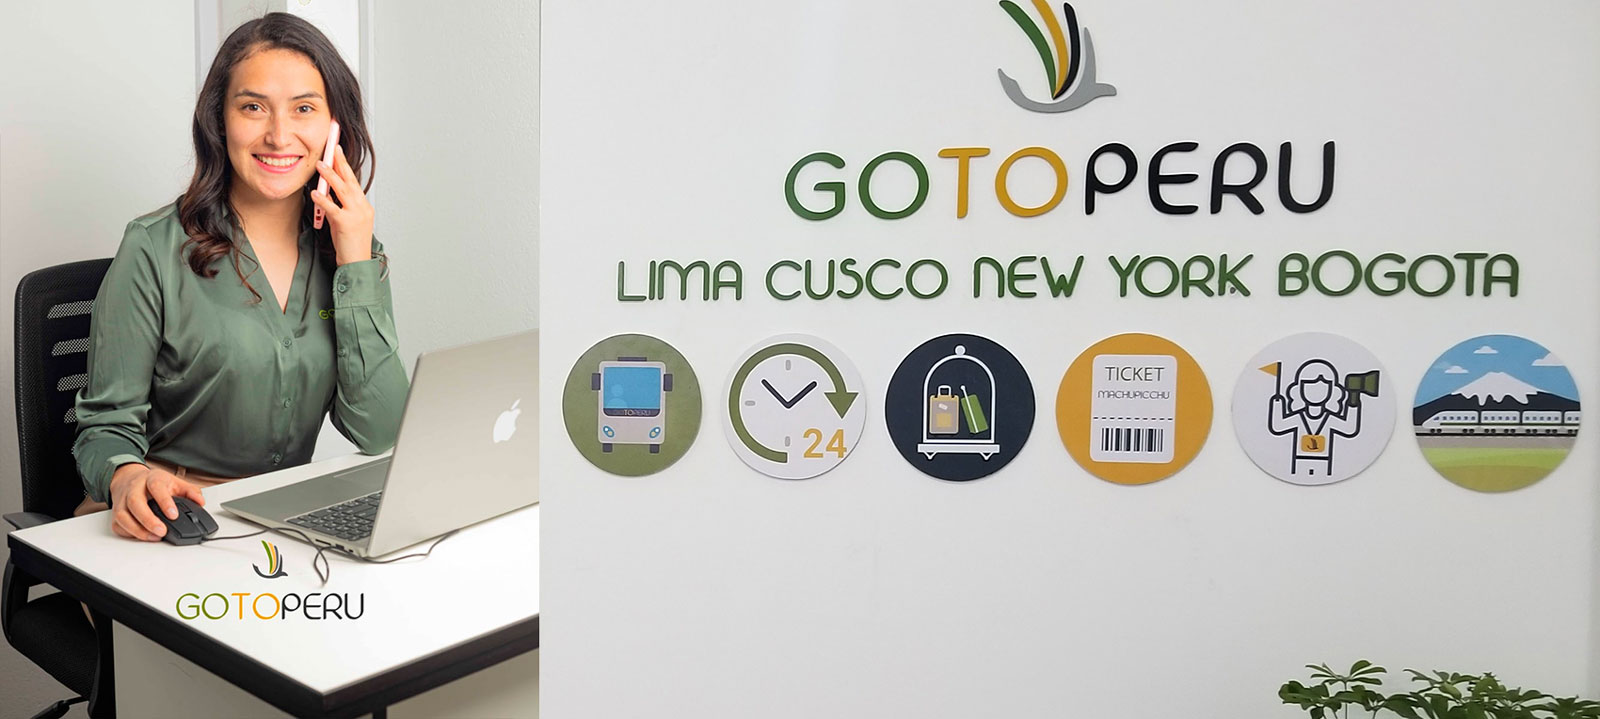
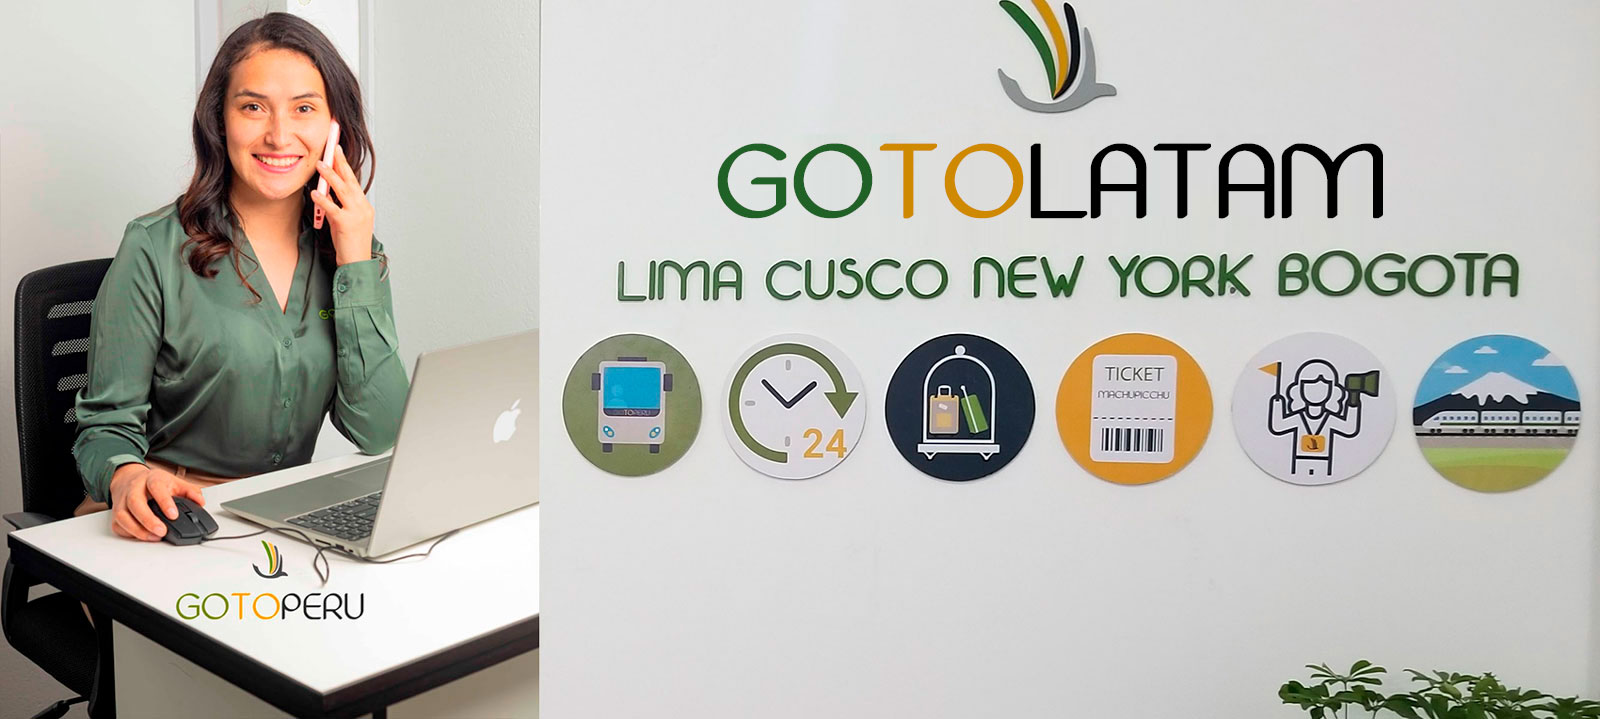
Validacion de estados

diff --git a/resources/views/layouts/page-layout.blade.php b/resources/views/layouts/page-layout.blade.php
@@ -306,14 +306,14 @@
 {{--    </div>--}}
 
 
-<div class="fixed bottom-0 right-0 z-40 py-6 px-7 sm:inline-flex">
+<div class="fixed bottom-0 right-0 z-40 py-6 px-7 sm:inline-flex mb-24 md:mb-0">
     <a href="https://api.whatsapp.com/send?phone=51936241194" target="_blank">
             <span class="flex relative h-10 w-10">
               <span class="animate-ping absolute inline-flex h-full w-full rounded-full bg-gray-400 opacity-75"></span>
             </span>
     </a>
 </div>
-<div class="fixed bottom-0 right-0 z-40 py-5 px-4 sm:inline-flex">
+<div class="fixed bottom-0 right-0 z-40 py-5 px-4 sm:inline-flex mb-24 md:mb-0">
     <a href="https://api.whatsapp.com/send?phone=51936241194" target="_blank">
         <img src="{{asset('images/whatsapp-i.png')}}" alt="" class="w-16">
     </a>
@@ -342,11 +342,11 @@
         </div>
     </div>
 
-    <div class="fixed bottom-0 right-0 mb-16 w-9/12 mr-1 rounded-lg bg-gray-50 z-50" x-show="menu" x-transition x-on:click.away="menu = false" x-data="{menu : false}">
+    <div class="fixed bottom-0 right-0 mb-16 w-9/12 mr-1 rounded-lg bg-gray-50 z-50" x-show="menu" x-transition x-on:click.away="menu = false" x-data="{menu2 : false}">
         @foreach($nav_links as $nav_link)
             @if($nav_link['nav_sub_links'])
 
-                <span @click="menu = !menu" class="w-full text-sm flex inline-flex transition-colors duration-200 block px-4 py-2 text-normal text-gray-900 rounded hover:bg-gray-700 hover:text-secondary menu-pop  {{ $nav_link['active'] == 1 ? 'active' : '' }}">
+                <span @click="menu2 = !menu2" class="w-full text-sm flex inline-flex transition-colors duration-200 block px-4 py-2 text-normal text-gray-900 rounded hover:bg-gray-700 hover:text-secondary menu-pop  {{ $nav_link['active'] == 1 ? 'active' : '' }}">
                     <span class="mr-2">
                     {!! $nav_link['icon'] !!}
                 </span>
@@ -356,9 +356,9 @@
                                         </svg>
                                     </span>
 
-                <div class="bg-gray-200 absolute top-0 rounded-lg mt-16 w-72 z-50 shadow-lg" x-show="menu" x-on:click.away="menu = false" x-transition>
+                <div class="bg-gray-200 absolute top-0 rounded-lg mt-16 w-72 z-50 shadow-lg" x-show="menu2" x-on:click.away="menu2 = false" x-transition>
                     <div class="font-bold text-gray-500 flex justify-between text-xs px-5 py-3">INFORMATION
-                        <span class="ml-auto cursor-pointer" @click="menu = !menu">X</span>
+                        <span class="ml-auto cursor-pointer" @click="menu2 = !menu2">X</span>
                     </div>
 
 
@@ -615,13 +615,13 @@
         {{--            <path fill="currentColor" d="M0 22L120 16.7C240 11 480 1.00001 720 0.700012C960 1.00001 1200 11 1320 16.7L1440 22V54H1320C1200 54 960 54 720 54C480 54 240 54 120 54H0V22Z"></path>--}}
         {{--        </svg>--}}
         <div class="container pt-12">
-            <div class="text-center mb-20 bg-gray-400 bg-opacity-50 rounded shadow p-6">
+            <div class="text-center mb-20  p-6">
                 <a href="/" aria-label="Go home" title="Company" class="inline-flex items-center">
-                    <img src="https://gotolatam.s3.us-west-1.amazonaws.com/logos/logo-gotoperu-black.png" alt="" class="mx-auto">
+                    <img src="{{asset('images/logos/logo-gotolatam-white.png')}}" alt="" class="mx-auto">
                 </a>
                 <span class="text-white px-3">part of</span>
                 <a href="/" aria-label="Go home" title="Company" class="inline-flex items-center">
-                    <img src="https://gotoperu-com.s3-us-west-1.amazonaws.com/logos/logo-gotoperu-black.png" alt="" class="mx-auto">
+                    <img src="{{asset('images/logos/logo-gotoperu-white.png')}}" alt="" class="mx-auto">
                 </a>
                 <p class="mt-4 font-semibold text-secondary">CONTACT US ALSO VIA EMAIL: travel@gotolatam.com</p>
             </div>
@@ -632,10 +632,16 @@
                     </p>
                     <ul class="mt-2 space-y-2">
                         <li>
-                            <a href="{{route('packages.all')}}" class="transition-colors duration-300 text-deep-purple-50 hover:text-teal-accent-400">{{__('message.foorer_li1')}}</a>
+                            <a href="{{route('country.show', 2)}}" class="transition-colors duration-300 text-deep-purple-50 hover:text-teal-accent-400">2 Countries</a>
                         </li>
                         <li>
-                            <a href="{{route('tours')}}" class="transition-colors duration-300 text-deep-purple-50 hover:text-teal-accent-400">{{__('message.foorer_li2')}}</a>
+                            <a href="{{route('country.show', 3)}}" class="transition-colors duration-300 text-deep-purple-50 hover:text-teal-accent-400">3 Countries</a>
+                        </li>
+                        <li>
+                            <a href="{{route('country.show', 4)}}" class="transition-colors duration-300 text-deep-purple-50 hover:text-teal-accent-400">4 Countries</a>
+                        </li>
+                        <li>
+                            <a href="{{route('packages.all')}}" class="transition-colors duration-300 text-deep-purple-50 hover:text-teal-accent-400">All Packages</a>
                         </li>
                         <li>
 {{--                            @livewire('page.form-inquire')--}}
@@ -712,16 +718,15 @@
                     </ul>
                 </div>
                 <div>
-                    <p class="font-semibold tracking-wide text-secondary mb-6">
 
-                    </p>
                     <div class="bg-gray-900 p-4 rounded-lg shadow-inner">
-                        <p class="mb-2 text-gray-300">
+{{--                        <p class="mb-2 text-gray-300">--}}
 {{--                            {{__('message.footer_par1')}}--}}
-                            Contact a South America travel expert
-                            We always aim to reply within 24 hours.
-                        </p>
-                        <a href="#form-dream-adventure" class="btn-primary lg:px-4 block text-center mt-4">Send us a  Enquiry</a>
+{{--                            Contact a South America travel expert--}}
+{{--                            We always aim to reply within 24 hours.--}}
+{{--                        </p>--}}
+                        <img src="{{asset('images/fiorella.jpg')}}" alt="">
+                        <a href="#form-dream-adventure" class="btn-primary lg:px-4 block text-center ">Contact Us</a>
 {{--                                                    @livewire('page.form-inquire')--}}
                     </div>
                 </div>

diff --git a/resources/views/page/about.blade.php b/resources/views/page/about.blade.php
@@ -11,13 +11,14 @@
     {{--    </div>--}}
 
     <section class="bg-gray-200 shadow hidden md:block">
-        <div class="grid grid-cols-2 items-center">
-            <div class="pl-64">
+        <div class="grid grid-cols-2 items-end">
+            <div class="pl-64 my-6 text-sm">
                 <h2 class="font-bold text-secondary text-4xl">YOUR LATAM TRAVEL EXPERTS</h2>
-                <p class="italic font-medium my-4">GOTOLATAM is a specialist travel agency catering to travellers who want an original, authentic and unforgettable experience at the land of the Incas. </p>
-                <p class="my-4 font-bold">From MachuPicchu all included tours, to off-the-beaten-path adventures at the Amazon and into Sacred Valley, Lake Titicaca, Lima, Arequipa and many more: we offer tailor-made Peru travel packages for all interests and needs. Since GOTOLATAM was established in 2009, we have had the pleasure of welcoming tens of thousands of happy travellers from over 50 countries. We hope to be able to welcome you and introduce you to the magical, biodiverse and historical Peru, our home.</p>
-                <p class="font-bold">Paul Catano</p>
-                <p class="text-xs">{{__('message.info_par4')}}</p>
+                <p class="italic font-medium my-4">GOTOLATAM's knowledge is based on the advice and experience of OUR LOCAL TEAM, who have worked in the travel industry for over 14 years. Our staff members were born in the southern continent and have traveled extensively through both South and Central America, so they can offer a unique perspective on the diversity of attractions and destinations to be discovered, as well as provide handy suggestions for traveling. We have affiliated offices in Buenos Aires, Santiago, Rio, Quito, La Paz, and Bogota in addition to our headquarters in the capital of the Incas : Cusco, Peru.</p>
+                <p class="my-4 font-bold">Depending on your needs and preferences, we provide a vast selection of hotels and tours from which to choose. If there is something absent from our website, please contact our team so we can explore whether we can arrange it for you.We work with a variety of hand-picked local operators, including the top guides and local reps at each stage of your itinerary who will serve as your trusted connections on the ground.</p>
+                <p>Our origins can be traced back to GOTOPERU Group, one of the most well-known tour operators in Peru with thousands of satisfied travelers; GOTOLATAM is now the foundation of our expansion, offering our clients more opportunities to continue exploring the best of our continent under one umbrella #GOTOLATAM</p>
+{{--                <p class="font-bold">Paul Catano</p>--}}
+{{--                <p class="text-xs">{{__('message.info_par4')}}</p>--}}
             </div>
             <div class="">
                 <img src="{{asset('images/gotoperu-banner-rgba.png')}}" alt="">

diff --git a/resources/views/page/detail.blade.php b/resources/views/page/detail.blade.php
@@ -781,6 +781,47 @@
     </section>
 
 
+    <section class="container my-12 ">
+        <div class="grid grid-cols-6 gap-4">
+            <div class="col-start-2 col-span-4">
+                <div class="grid grid-cols-3 md:grid-cols-8 content-center text-center">
+                    <div class="">
+                        <img src="{{asset('images/include/assistances.png')}}" alt="{{__('message.serv_item2')}}" class="object-contain px-4 text-center">
+                        <p class="text-xs">{{__('message.serv_item2')}}</p>
+                    </div>
+                    <div class="">
+                        <img src="{{asset('images/include/breakfast.png')}}" alt="{{__('message.serv_item3')}}" class="object-contain px-4 text-center">
+                        <p class="text-xs">{{__('message.serv_item3')}}</p>
+                    </div>
+                    <div class="">
+                        <img src="{{asset('images/include/entrances.png')}}" alt="{{__('message.serv_item4')}}" class="object-contain px-4 text-center">
+                        <p class="text-xs">{{__('message.serv_item4')}}</p>
+                    </div>
+                    <div class="">
+                        <img src="{{asset('images/include/flight.png')}}" alt="{{__('message.serv_item5')}}" class="object-contain px-4 text-center">
+                        <p class="text-xs">{{__('message.serv_item5')}}</p>
+                    </div>
+                    <div class="">
+                        <img src="{{asset('images/include/hotels.png')}}" alt="{{__('message.serv_item6')}}" class="object-contain px-4 text-center">
+                        <p class="text-xs">{{__('message.serv_item6')}}</p>
+                    </div>
+                    <div class="">
+                        <img src="{{asset('images/include/tours.png')}}" alt="{{__('message.serv_item7')}}" class="object-contain px-4 text-center">
+                        <p class="text-xs">{{__('message.serv_item7')}}</p>
+                    </div>
+                    <div class="">
+                        <img src="{{asset('images/include/trains.png')}}" alt="{{__('message.serv_item8')}}" class="object-contain px-4 text-center">
+                        <p class="text-xs">{{__('message.serv_item8')}}</p>
+                    </div>
+                    <div class="">
+                        <img src="{{asset('images/include/transfers.png')}}" alt="{{__('message.serv_item9')}}" class="object-contain px-4 text-center">
+                        <p class="text-xs">{{__('message.serv_item9')}}</p>
+                    </div>
+                </div>
+            </div>
+        </div>
+    </section>
+
     <section class="bg-secondary bg-opacity-60 mt-12 py-12">
         <div class="container text-center grid  grid-cols-1 md:grid-cols-2 gap-6">
             <div class="text-center">

diff --git a/resources/lang/en/message.php b/resources/lang/en/message.php
@@ -171,7 +171,7 @@ return [
     'abou_par4' => 'GOTOLATAM representatives',
 
     'faq_title1' => 'Frequently asked questions',
-    'faq_par1' => 'A trip to Peru is an exciting adventure! There are a number of common questions first-time travelers to Peru frequently ask.',
+    'faq_par1' => 'A trip to South America is an exciting adventure! There are a number of common questions first-time travelers to South America frequently ask.',
     'faq_subtitle1' => ' When is the best time to travel to peru?',
     'faq_par2' => 'If your travel dates are flexible, the majority of travelers prefer to go to Peru in the dry season, from May to October. If you plan on hiking, the best months to visit are April, May, September, and October—though the rainy season can sometimes end later or begin earlier than normal. Early in the dry season is ideal for visiting the Amazon too, and taking advantage of more Peru travel packages across the various regions.',
     'faq_par3' => 'Plenty of people visit in the rainy season between November and March, when visitor numbers are fewer and you might find cheaper flights (with Christmastime as the exception). The mornings are generally clear and warm, but the days gradually become cloudy leading to possible rain in the afternoon.',

diff --git a/resources/views/page/category-show.blade.php b/resources/views/page/category-show.blade.php
@@ -13,7 +13,8 @@
 
     <section class="container py-12 text-gray-500 text-center mx-auto">
 {{--        <p>{{__('message.dest_deta_par1')}}</p>--}}
-        <p>The following travel Peru packages could be a reference and inspiration for your ideal peruvian vacation. No matter the type of adventure you are seeking, GOTOPERU has a trip for you. Hoping to see Llamas? Check! .Want an active Inca Trail hiking trip? Check! How about a Ceviche in Lima? Check! .How about a trip for you, your kiddos, and Grandma and Grandpa? Contact us today with a short description of your ideal Peru trip and we will make it happen.</p>
+        <p>At GOTOLATAM, we design customized 3, 4, and 5-star tours of the stunning South American continent. Browse through hundreds of diverse tour ideas ranging from luxury to soft adventure. Choose your preferred destinations and countries, or ask our expert Travel Consultants for suggestions.</p>
+        <p>Every member of GOTOLATAM's team has first-hand experience exploring South America, making us the go-to resource for anything and everything you need to know about this region.</p>
     </section>
 
 

diff --git a/resources/views/page/home.blade.php b/resources/views/page/home.blade.php
@@ -252,7 +252,7 @@
                     <svg xmlns="http://www.w3.org/2000/svg" class="h-6 w-6" fill="none" viewBox="0 0 24 24" stroke="currentColor">
                         <path stroke-linecap="round" stroke-linejoin="round" stroke-width="2" d="M5 13l4 4L19 7" />
                     </svg>
-                    Experts in tailor-made Peru travel</p>
+                    Experts in tailor-made South America travel</p>
                 <p class="flex my-4">
                     <svg xmlns="http://www.w3.org/2000/svg" class="h-6 w-6" fill="none" viewBox="0 0 24 24" stroke="currentColor">
                         <path stroke-linecap="round" stroke-linejoin="round" stroke-width="2" d="M5 13l4 4L19 7" />

diff --git a/resources/views/page/book.blade.php b/resources/views/page/book.blade.php
@@ -1,7 +1,7 @@
 @extends('layouts.page-layout')
 @section('content')
     <section class="-mt-32 h-80vh -z-1 relative">
-        <img src="{{asset('images/team/banner.jpg')}}" alt="" class="h-full w-full object-cover object-top">
+        <img src="{{asset('images/team/banner3.jpg')}}" alt="" class="h-full w-full object-cover object-top">
         <div class="absolute bottom-0 left-0 p-12">
             <h1 class="text-5xl font-semibold text-gray-50">{{__('message.info_title1')}}</h1>
         </div>
